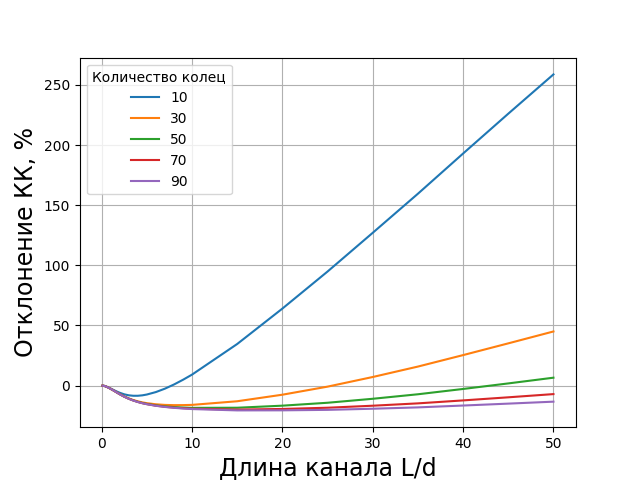
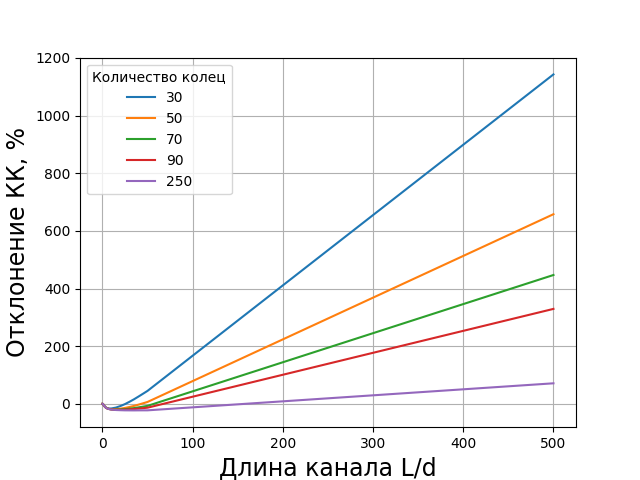
Add plot_zero_pos method

diff --git a/main.py b/main.py
@@ -1,8 +1,7 @@
 import numpy as np
 from matplotlib import pyplot as plt
 from numpy.typing import NDArray
-from scipy.optimize import fsolve
-from scipy.interpolate import BarycentricInterpolator as Interpolator
+from MNK import Interpolator
 from separator.round import RoundSeparator
 from theoretical_cc import theoretical_cc
 
@@ -14,6 +13,7 @@ def plot_num_of_cells(R, L, nums: NDArray[int]):
             s = RoundSeparator(R, L, nums[i])
             coeffs = s.calc_ac()
             Y[i] = s.calc_clausing(coeffs)
+        print(Y[-1])
         return Y
 
     plt.xlabel("Количество ячеек n", size=17)
@@ -42,8 +42,8 @@ class Graph:
             plt.plot(self.lens, self.graphs[num], label=f"{num}")
         if k is not None and len(k):
             plt.plot(self.lens, k, label=f"теория")
-        plt.xlabel("Длина канала L/d", size=17)
-        plt.ylabel("Коэффициент Клаузинга", size=17)
+        plt.xlabel("Длина канала L/d", size=19)
+        plt.ylabel("Коэффициент Клаузинга", size=19)
         plt.legend(title="Количество колец")
         plt.grid()
         plt.show()
@@ -59,8 +59,8 @@ class Graph:
         lens_min, deviation_min = [], []
         for num in self.nums:
             plt.plot(self.lens, self.calc_deviation(num, k), label=f"{num}")
-        plt.xlabel("Длина канала L/d", size=17)
-        plt.ylabel("Отклонение КК, %", size=17)
+        plt.xlabel("Длина канала L/d", size=19)
+        plt.ylabel("Отклонение КК, %", size=19)
         plt.legend(title="Количество колец")
         plt.grid()
         plt.show()
@@ -87,24 +87,28 @@ class Graph:
         return
 
     def plot_zero_pos(self, k: NDArray = None):
-        zeros = []
-        for num in self.nums:
-            deviation = self.calc_deviation(num, k)
-            func = Interpolator(np.array(self.lens), deviation)
-            root = fsolve(func, np.zeros(1))[-1]
-            if num == 30:
-                print(root)
-            zeros.append(root)
-        plt.plot(self.nums, zeros)
+        zeros = np.zeros(len(self.nums), dtype=float)
+        for i in range(len(self.nums)):
+            deviation = self.calc_deviation(self.nums[i], k)
+            for j in range(len(deviation)):
+                if deviation[j] >= 0.0 and j < len(deviation) - 1:
+                    zeros[i] = self.lens[j]
+                    break
+        interp = Interpolator(self.nums, zeros)
+        print(interp.calc_params())
+        plt.errorbar(self.nums, zeros, yerr=interp.calc_error(), linestyle=" ")
+        plt.plot(self.nums, zeros, marker="o", markersize=1.5, linestyle=" ", label="эксп. точки")
+        plt.plot(self.nums, interp.calc_line(), label="аппроксимация")
         plt.xlabel("Количество колец", size=17)
         plt.ylabel("Положение нуля", size=17)
+        plt.legend()
         plt.grid()
         plt.show()
-        return
 
 
 # plot_num_of_cells(1, 2, np.arange(1, 31))
-y = np.arange(9, 50)
+y = np.arange(1, 55)
+# plot_num_of_cells(1, 50, y)
 g = Graph(list(theoretical_cc.keys()), y)
 # g.plot_clausing(np.array(list(theoretical_cc.values())))
 # g.plot_deviation(np.array(list(theoretical_cc.values())))

diff --git a/MNK.py b/MNK.py
@@ -1,0 +1,25 @@
+from math import sqrt
+import numpy as np
+
+
+class Interpolator:
+    def __init__(self, x, y):
+        self.x, self.y = x, y
+
+    def calc_params(self) -> tuple[float, float, float, float]:
+        n = len(self.y)
+        aver_y, aver_x = np.mean(self.y), np.mean(self.x)
+        aver_xy, aver_yy, aver_xx = np.mean(self.x * self.y), np.mean(self.y ** 2), np.mean(self.x ** 2)
+        A = (aver_xy - aver_x * aver_y) / (aver_xx - aver_x ** 2)
+        B = aver_y - A * aver_x
+        err_A = sqrt(((aver_yy - aver_y ** 2) / (aver_xx - aver_x ** 2) - A ** 2) / n)
+        err_B = err_A * sqrt(aver_xx - aver_x ** 2)
+        return A, B, err_A, err_B
+
+    def calc_line(self):
+        a, b, *_ = self.calc_params()
+        return a * self.x + b
+
+    def calc_error(self):
+        *_, err_a, err_b = self.calc_params()
+        return np.sqrt((self.x * err_a) ** 2 + err_b ** 2)

diff --git a/theoretical_cc.py b/theoretical_cc.py
@@ -1,7 +1,7 @@
 # the data is taken from reference No. 2 Links.txt
 k = [0.9092, 0.8341, 0.7711, 0.7177, 0.6720, 0.6320, 0.5970, 0.5659, 0.5384, 0.5136, 0.4914, 0.4711, 0.4527, 0.4359,
      0.4205, 0.4062, 0.3931, 0.3809, 0.3695, 0.3589, 0.3146, 0.2807, 0.2537, 0.2316, 0.2131, 0.1973, 0.1719, 0.1523,
-     0.1367, 0.1240, 0.1135, 0.0797, 0.0613, 0.0499, 0.042, 0.0363, 0.0319, 0.0285, 0.0258]
+     0.1367, 0.1240, 0.1135, 0.0797, 0.0613, 0.0499, 0.042, 0.0363, 0.0319, 0.0285, 0.0258, 0.0026]
 L = [0.1, 0.2, 0.3, 0.4, 0.5, 0.6, 0.7, 0.8, 0.9, 1., 1.1, 1.2, 1.3, 1.4, 1.5, 1.6, 1.7, 1.8, 1.9, 2., 2.5, 3., 3.5, 4.,
-     4.5, 5., 6., 7., 8., 9., 10., 15.0, 20.0, 25.0, 30.0, 35.0, 40.0, 45.0, 50.0]
+     4.5, 5., 6., 7., 8., 9., 10., 15.0, 20.0, 25.0, 30.0, 35.0, 40.0, 45.0, 50.0, 500.0]
 theoretical_cc = dict(zip(L, k))
